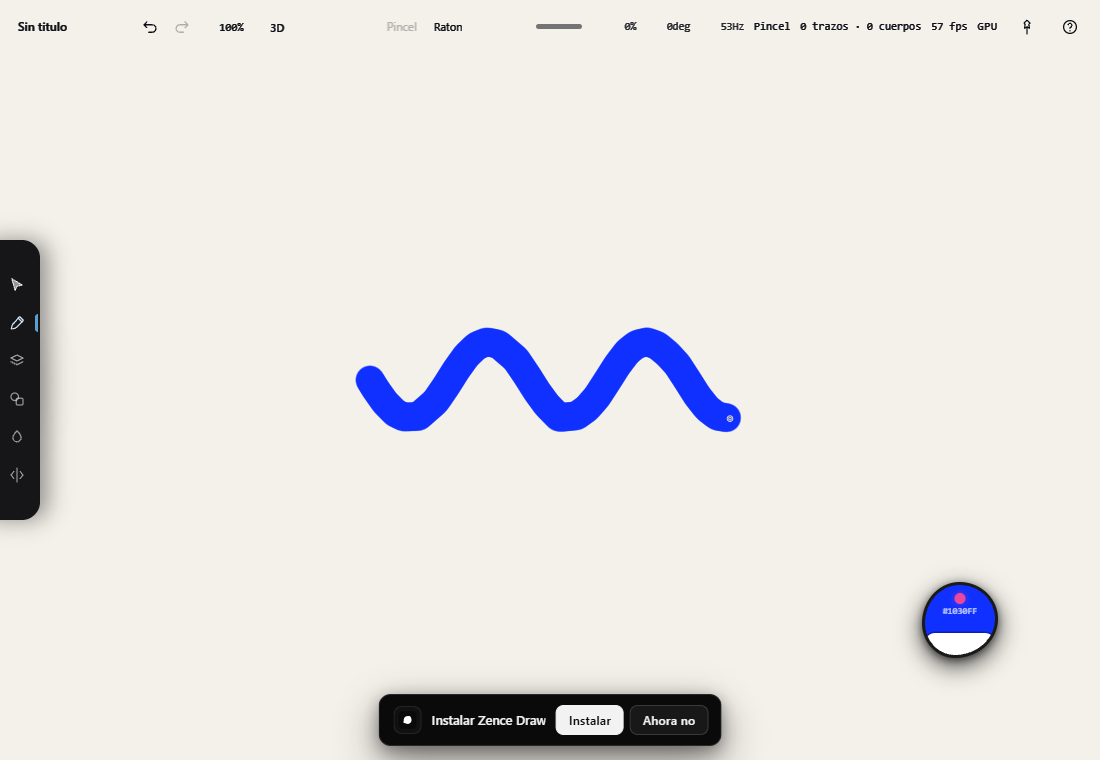
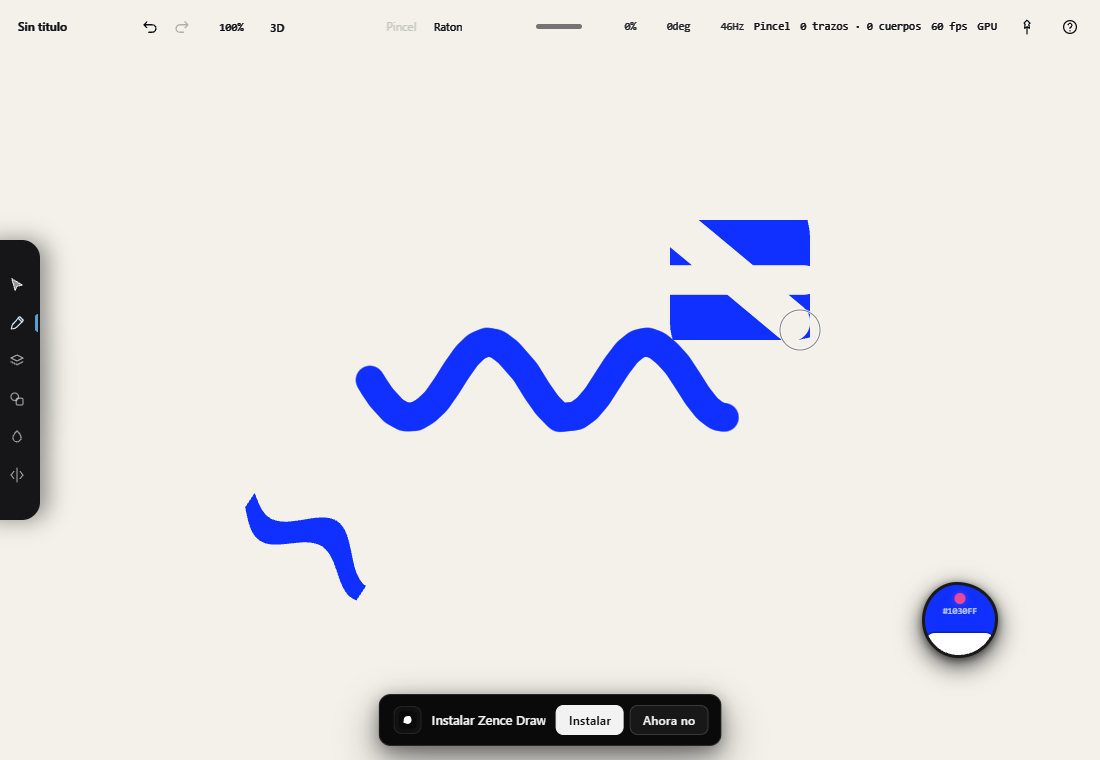
pincel raster 2

diff --git a/src/tools/brush-tool.ts b/src/tools/brush-tool.ts
@@ -60,6 +60,8 @@ export class BrushTool implements Tool {
   // cuántos puntos consolidados del builder ya se han enviado a estampar.
   private raster = false;
   private rasterSent = 0;
+  /** Borrado ráster en curso (modo Borrador con capa de píxeles de destino). */
+  private rasterErasing = false;
 
   private isTargetLocked(ctx: ToolContext): boolean {
     const layer = ctx.doc.activeLayer;
@@ -92,9 +94,14 @@ export class BrushTool implements Tool {
     this.lastY = w.y;
     this.erasedAny = false;
     this.raster = false;
+    this.rasterErasing = false;
 
     if (ctx.brush.mode === "erase") {
-      this.beginErase(ctx, s, w.x, w.y);
+      // Con el pincel ráster activo, la goma abre el bitmap de la capa en vez de
+      // recortar tinta vectorial (sub-modos pincel y forma; objeto/color no
+      // aplican a píxeles).
+      if (ctx.rasterBrushActive) this.beginRasterErase(ctx, s);
+      else this.beginErase(ctx, s, w.x, w.y);
       return;
     }
 
@@ -110,12 +117,13 @@ export class BrushTool implements Tool {
     this.builder = new StrokeBuilder(ctx.brush);
     this.builder.setZoom(ctx.camera.zoom);
     this.builder.begin(this.worldSample(ctx, s));
-    // Pincel ráster: en vez de la vista previa vectorial, se estampa en vivo
-    // sobre la capa de píxeles desde el primer punto.
-    if (ctx.rasterBrushActive) {
+    // Pincel ráster en modo Trazo: se estampa en vivo sobre la capa de píxeles
+    // (con `invert` → borra). El Relleno, en cambio, muestra la vista previa
+    // vectorial y rellena el área al soltar (como el relleno vectorial).
+    if (ctx.rasterBrushActive && ctx.brush.mode !== "fill") {
       this.raster = true;
       this.rasterSent = 0;
-      ctx.rasterStrokeBegin();
+      ctx.rasterStrokeBegin(this.invert);
       this.flushRaster(ctx);
       return;
     }
@@ -126,7 +134,8 @@ export class BrushTool implements Tool {
     if (!this.active) return;
 
     if (ctx.brush.mode === "erase") {
-      this.moveErase(ctx, samples, predicted);
+      if (this.rasterErasing) this.moveRasterErase(ctx, samples);
+      else this.moveErase(ctx, samples, predicted);
       return;
     }
 
@@ -164,7 +173,8 @@ export class BrushTool implements Tool {
     this.active = false;
 
     if (ctx.brush.mode === "erase") {
-      this.endErase(ctx, s);
+      if (this.rasterErasing) this.endRasterErase(ctx, s);
+      else this.endErase(ctx, s);
       return;
     }
 
@@ -186,6 +196,15 @@ export class BrushTool implements Tool {
       // Acuarela: la misma silueta estirada se vierte en el plano de fluido.
       if (ctx.aquaBrushActive) {
         this.finishAquaArea(ctx, wet?.polys ?? []);
+        return;
+      }
+      // Pincel ráster: la silueta estirada se rellena sobre la capa de píxeles
+      // (con `invert` → borra ese área).
+      if (ctx.rasterBrushActive) {
+        ctx.setWet(null);
+        const polys = wet?.polys ?? [];
+        if (polys.length) ctx.fillRaster(polys, this.invert);
+        ctx.history.abort();
         return;
       }
       this.finish(ctx, wet, this.invert ? "Borrar" : "Forma");
@@ -222,6 +241,15 @@ export class BrushTool implements Tool {
       this.finishMatter(ctx, this.wetFromPoints(ctx, points, false)?.polys ?? []);
       return;
     }
+    // Pincel ráster en modo Relleno: el área cerrada se rellena sobre la capa de
+    // píxeles (con `invert` → borra). El Trazo ya se estampó en vivo arriba.
+    if (ctx.rasterBrushActive) {
+      ctx.setWet(null);
+      const polys = this.wetFromPoints(ctx, points, false)?.polys ?? [];
+      if (polys.length) ctx.fillRaster(polys, this.invert);
+      ctx.history.abort();
+      return;
+    }
     // Acuarela: el trazo/relleno (con toda su dinamica ya resuelta) se siembra en
     // el fluido. El Trazo usa su linea central (radios por punto); el Relleno usa
     // el area cerrada. Asi el gesto es identico al vectorial, pero fluye.
@@ -248,6 +276,7 @@ export class BrushTool implements Tool {
       this.raster = false;
       ctx.rasterStrokeCancel();
     }
+    this.rasterErasing = false;
     ctx.setWet(null);
     ctx.history.abort();
   }
@@ -345,6 +374,79 @@ export class BrushTool implements Tool {
     }
     if (wet && hasInk) ctx.commitWet(wet);
     ctx.history.commit("Borrar");
+  }
+
+  // ------------------------------------------------------- borrado ráster
+
+  /**
+   * Goma del pincel ráster: abre el bitmap de la capa de píxeles. Sub-modo
+   * `brush` → trazo de borrado en vivo (ancho constante); `shape` → la forma
+   * activa borra su área al soltar. Los sub-modos `object`/`color` no aplican a
+   * píxeles, así que no hacen nada.
+   */
+  private beginRasterErase(ctx: ToolContext, s: InputSample): void {
+    const em = ctx.brush.eraseMode;
+    if (em === "brush") {
+      this.rasterErasing = true;
+      this.builder = new StrokeBuilder({ ...ctx.brush, dynamics: "constant", minRatio: 1 });
+      this.builder.setZoom(ctx.camera.zoom);
+      this.builder.begin(this.worldSample(ctx, s));
+      this.raster = true;
+      this.rasterSent = 0;
+      ctx.rasterStrokeBegin(true);
+      this.flushRaster(ctx);
+      return;
+    }
+    if (em === "shape") {
+      this.rasterErasing = true;
+      this.paintWet(ctx);
+    }
+    // object/color: no se puede seleccionar "objetos" de píxeles; no se borra nada.
+  }
+
+  private moveRasterErase(ctx: ToolContext, samples: InputSample[]): void {
+    const em = ctx.brush.eraseMode;
+    if (em === "brush") {
+      const b = this.builder;
+      if (!b) return;
+      b.setZoom(ctx.camera.zoom);
+      if (b.push(samples.map((sm) => this.worldSample(ctx, sm)))) this.flushRaster(ctx);
+      return;
+    }
+    if (em === "shape") {
+      const w = ctx.toWorld(samples[samples.length - 1]);
+      this.lastX = w.x;
+      this.lastY = w.y;
+      this.paintWet(ctx);
+    }
+  }
+
+  private endRasterErase(ctx: ToolContext, s: InputSample): void {
+    const em = ctx.brush.eraseMode;
+    this.rasterErasing = false;
+    if (em === "brush") {
+      const b = this.builder;
+      this.builder = null;
+      if (b) b.push([this.worldSample(ctx, s)], true);
+      if (this.raster) {
+        this.flushRaster(ctx);
+        this.raster = false;
+        ctx.rasterStrokeEnd();
+      }
+      ctx.history.abort();
+      return;
+    }
+    if (em === "shape") {
+      const w = ctx.toWorld(s);
+      this.lastX = w.x;
+      this.lastY = w.y;
+      const shape = this.buildEraseShape(ctx);
+      ctx.setWet(null);
+      ctx.fillRaster([shape], true);
+      ctx.history.abort();
+      return;
+    }
+    ctx.history.abort();
   }
 
   /**

diff --git a/src/app/editor.ts b/src/app/editor.ts
@@ -285,6 +285,7 @@ export class Editor {
     stroke: RasterStroke;
     opacity: number;
     rect: Rect;
+    erase: boolean;
   } | null = null;
   /** Biblioteca de pinceles ráster (fábrica + importados), y el preset activo. */
   private brushPresets: BrushPreset[] = defaultPresets();
@@ -1164,11 +1165,12 @@ export class Editor {
    * si no la última creada, y si no hay ninguna se crea una (con la instantánea
    * ANTES, o deshacer no la quitaría). Espejo de `aquaTargetLayer`.
    */
-  private rasterTargetLayer(): SceneLayer | null {
+  private rasterTargetLayer(create = true): SceneLayer | null {
     const active = this.doc.activeLayer;
     if (active?.kind === "raster") return active;
     const existing = this.doc.rasterLayers[this.doc.rasterLayers.length - 1];
     if (existing) return existing;
+    if (!create) return null;
     const before = this.doc.snapshot();
     const layer = this.doc.addRasterLayer(this.rasterRectForNew());
     this.history.record("Nueva capa de pincel", before);
@@ -1217,13 +1219,13 @@ export class Editor {
   }
 
   /**
-   * Abre un trazo ráster en vivo sobre la capa de destino (creándola si hace
-   * falta). Fija el color/punta del trazo, respalda el bitmap actual y arranca
-   * un estampador con un buffer del tamaño del lienzo de la capa.
+   * Abre un trazo ráster en vivo sobre la capa de destino. Al pintar la crea si
+   * no hay; al borrar (`erase`) usa solo la que ya exista (no tiene sentido crear
+   * una capa vacía para borrar). Respalda el bitmap y arranca el estampador.
    */
-  rasterStrokeBegin(): void {
+  rasterStrokeBegin(erase = false): void {
     this.rasterLive = null;
-    const layer = this.rasterTargetLayer();
+    const layer = this.rasterTargetLayer(!erase);
     if (!layer || !layer.rasterRect) return;
     const canvas = this.rasterCanvasFor(layer.id, true);
     if (!canvas) return;
@@ -1254,6 +1256,7 @@ export class Editor {
       stroke,
       opacity: clamp01(this.brush.opacity),
       rect: layer.rasterRect,
+      erase,
     };
   }
 
@@ -1318,8 +1321,45 @@ export class Editor {
     g.clearRect(x0, y0, w, h);
     g.drawImage(live.backup, x0, y0, w, h, x0, y0, w, h);
     g.globalAlpha = live.opacity;
+    // Pintar: el trazo se SUMA sobre lo que había. Borrar: su cobertura RESTA
+    // (destination-out), así la goma ráster abre el bitmap como en Photoshop.
+    g.globalCompositeOperation = live.erase ? "destination-out" : "source-over";
     g.drawImage(st.buffer, x0, y0, w, h, x0, y0, w, h);
     g.globalAlpha = 1;
+    g.globalCompositeOperation = "source-over";
+  }
+
+  /**
+   * Rellena (o borra, con `erase`) polígonos de MUNDO sobre la capa ráster de
+   * destino, a la opacidad del pincel y con el color activo. Es lo que usan los
+   * modos Relleno y Arrastre del pincel ráster, y la goma de forma.
+   */
+  fillRaster(polys: readonly import("../stroke/types").Polygon[], erase = false): void {
+    if (polys.length === 0) return;
+    const layer = this.rasterTargetLayer(!erase);
+    if (!layer || !layer.rasterRect) return;
+    const canvas = this.rasterCanvasFor(layer.id, true);
+    if (!canvas) return;
+    const g = canvas.getContext("2d");
+    if (!g) return;
+    const rect = layer.rasterRect;
+    const sx = canvas.width / rect.w;
+    const sy = canvas.height / rect.h;
+    g.save();
+    g.globalAlpha = clamp01(this.brush.opacity);
+    g.globalCompositeOperation = erase ? "destination-out" : "source-over";
+    g.fillStyle = this.color;
+    g.beginPath();
+    for (const poly of polys) {
+      if (poly.length < 3) continue;
+      g.moveTo((poly[0].x - rect.x) * sx, (poly[0].y - rect.y) * sy);
+      for (let i = 1; i < poly.length; i++) g.lineTo((poly[i].x - rect.x) * sx, (poly[i].y - rect.y) * sy);
+      g.closePath();
+    }
+    g.fill();
+    g.restore();
+    this.inkLayer.invalidate();
+    this.status(erase ? "Borrar" : "Relleno");
   }
 
   /**
@@ -2410,8 +2450,8 @@ export class Editor {
       get rasterBrushActive(): boolean {
         return editor.rasterBrushActive;
       },
-      rasterStrokeBegin(): void {
-        editor.rasterStrokeBegin();
+      rasterStrokeBegin(erase?: boolean): void {
+        editor.rasterStrokeBegin(erase);
       },
       rasterStrokeAdd(points): void {
         editor.rasterStrokeAdd(points);
@@ -2421,6 +2461,9 @@ export class Editor {
       },
       rasterStrokeCancel(): void {
         editor.rasterStrokeCancel();
+      },
+      fillRaster(polys, erase?: boolean): void {
+        editor.fillRaster(polys, erase);
       },
     };
     return this.toolCtx;

diff --git a/src/tools/types.ts b/src/tools/types.ts
@@ -86,14 +86,16 @@ export interface ToolContext {
   stampAquaArea(polys: readonly Polygon[], color: string): void;
   /** El pincel esta en modo raster (pincel tipo Photoshop sobre capa de pixeles). */
   readonly rasterBrushActive: boolean;
-  /** Abre un trazo raster en vivo (crea capa/lienzo destino si hace falta). */
-  rasterStrokeBegin(): void;
+  /** Abre un trazo raster en vivo (crea capa/lienzo destino si hace falta). `erase` borra. */
+  rasterStrokeBegin(erase?: boolean): void;
   /** Prolonga el trazo raster en vivo con los puntos NUEVOS (linea central en mundo). */
   rasterStrokeAdd(points: readonly StrokePoint[]): void;
   /** Cierra el trazo raster: vuelca el buffer sobre la capa a la opacidad del trazo. */
   rasterStrokeEnd(): void;
   /** Cancela el trazo raster en curso y restaura la capa a como estaba. */
   rasterStrokeCancel(): void;
+  /** Rellena (o borra) poligonos de mundo sobre la capa raster (modos Relleno/Arrastre/goma de forma). */
+  fillRaster(polys: readonly Polygon[], erase?: boolean): void;
 }
 
 export interface Tool {
